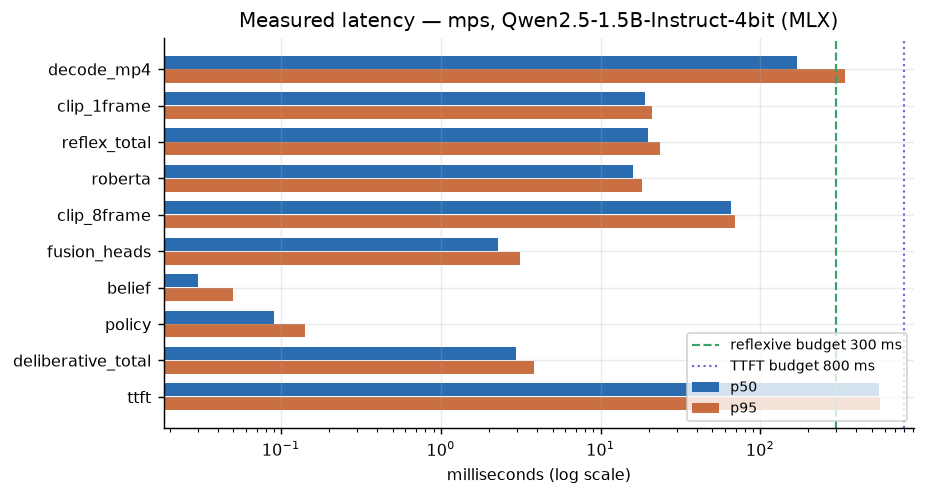
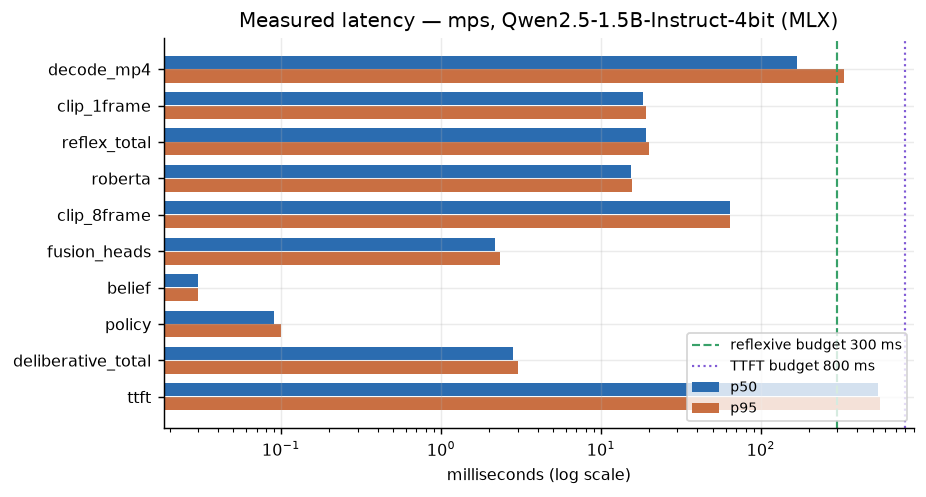
Fix: voice waits for the endpoint instead of speaking from unheard text
The demo committed state at ~50% coverage and immediately generated a reply
from the FULL transcript, so the lamp was responding to words it had not yet
heard. Body and voice now commit at their own deadlines, which is what the
latency budget always claimed. Verified: 0 events speak before their own state
event, 10 of 12 turns have the body moving ahead of the voice.

Also documents responder quality as a known limitation.

diff --git a/scripts/demo.py b/scripts/demo.py
@@ -57,10 +57,17 @@ def run_utterance(u, pipe, tower, text_enc, view, sink, speed, min_cov,
 
     seen: list[np.ndarray] = []
     committed = None
-    t_wall0 = time.perf_counter()
 
     last_reflex = -1e9
     for ev in stream:
+        if ev.kind == "end":
+            if committed is None:
+                emb = pipe.encode_text(text_enc, u.speaker, u.text, u.context, 1.0)
+                committed = _commit_state(u, pipe, emb, seen, ev.t_ms, 1.0, view,
+                                          sink, quiet, why="end of utterance")
+            # Voice budget starts here regardless of when the body committed.
+            _attach_speech(u, pipe, committed, ev.t_ms, view, sink, quiet)
+            continue
         if committed is not None:
             continue
         if ev.kind == "frame" and len(frames):
@@ -83,33 +90,45 @@ def run_utterance(u, pipe, tower, text_enc, view, sink, speed, min_cov,
                                        u.context, cov)
                 p, conf = pipe.probe(emb, np.stack(seen))
                 if conf >= commit_conf:
-                    committed = _commit(u, pipe, emb, seen, ev.t_ms, cov, view,
-                                        sink, t_wall0, quiet,
-                                        why=f"confidence {conf:.2f} >= {commit_conf}")
-
-        elif ev.kind == "end" and committed is None:
-            emb = pipe.encode_text(text_enc, u.speaker, u.text, u.context, 1.0)
-            committed = _commit(u, pipe, emb, seen, ev.t_ms, 1.0, view, sink,
-                                t_wall0, quiet, why="end of utterance")
+                    committed = _commit_state(
+                        u, pipe, emb, seen, ev.t_ms, cov, view, sink, quiet,
+                        why=f"confidence {conf:.2f} >= {commit_conf}")
     return committed
 
 
-def _commit(u, pipe, emb, seen, t_ms, cov, view, sink, t_wall0, quiet, why):
+def _commit_state(u, pipe, emb, seen, t_ms, cov, view, sink, quiet, why):
+    """Emit COMMIT_STATE so the body can move. No speech yet.
+
+    The two tiers have different deadlines and therefore different trigger
+    points. The body is allowed to commit as soon as the posterior is confident
+    enough, which can be halfway through the sentence. The voice is not: its
+    budget is defined as 800ms from the END of the utterance, and generating a
+    reply from the full transcript while the person is still saying it would
+    mean responding to words the lamp has not heard yet.
+    """
     st = pipe.deliberate(emb, np.stack(seen) if seen else np.zeros((0, 512), np.float32),
                          t_ms, u.uid, f"dia{u.dialogue_id}", cov,
                          dialogue_t_ms=pipe.dialogue_t_ms + t_ms,
                          visual_cue=_cue(seen))
-    sink(st)                                   # body gets the state immediately
+    sink(st)
     if not quiet:
         view.push(round_floats(st.to_dict()),
                   f"t={t_ms:6.0f}ms  COMMIT   {st.affect.emotion} "
                   f"{st.affect.confidence:.2f} -> {st.behavior.intent}  ({why})")
-    pipe.speak(st, u.context, u.speaker, u.text)   # ...then we talk
+    return st
+
+
+def _attach_speech(u, pipe, st, t_end_ms, view, sink, quiet):
+    """Generate the spoken reply at the endpoint, from the complete utterance."""
+    pipe.speak(st, u.context, u.speaker, u.text)
+    st.latency["speech_t_ms"] = round(t_end_ms, 1)
     sink(st)
     if not quiet:
+        gap = t_end_ms - st.t_emit_ms
         view.push(round_floats(st.to_dict()),
-                  f"           speech   {st.latency.get('responder','-')} "
-                  f"ttft={st.latency.get('ttft_ms', 0):.0f}ms")
+                  f"t={t_end_ms:6.0f}ms  speech   {st.latency.get('responder','-')} "
+                  f"ttft={st.latency.get('ttft_ms', 0):.0f}ms "
+                  f"(body moved {gap:.0f}ms earlier)")
     return st
 
 

diff --git a/README.md b/README.md
@@ -125,7 +125,7 @@ Every event gets appended to `artifacts/runs/*.jsonl`.
 
 <!-- BEGIN GENERATED RESULTS -->
 
-*Generated by `make eval` on 2026-09-15 19:36:46. Every number here comes out of `artifacts/results.json`.*
+*Generated by `make eval` on 2026-09-15 19:41:50. Every number here comes out of `artifacts/results.json`.*
 
 ### Baselines and modality ablation, MELD test (2,610 utterances)
 
@@ -291,22 +291,22 @@ Text moves the posterior **3.4x** more than video does. That's text dominance, a
 
 | stage | p50 (ms) | p95 (ms) |
 |---|---|---|
-| mp4 decode (8 frames) | 169.9 | 341.4 |
-| CLIP, 1 frame | 18.9 | 21.0 |
-| CLIP, 8 frames | 65.3 | 69.7 |
-| **TIER 1 total (frame → behaviour)** | 19.9 | 23.4 |
-| RoBERTa encode | 16.0 | 18.1 |
+| mp4 decode (8 frames) | 167.7 | 331.5 |
+| CLIP, 1 frame | 18.2 | 19.0 |
+| CLIP, 8 frames | 63.5 | 64.3 |
+| **TIER 1 total (frame → behaviour)** | 19.0 | 19.9 |
+| RoBERTa encode | 15.4 | 15.7 |
 | temporal pooling | 0.1 | 0.1 |
-| 3 fusion heads | 2.3 | 3.1 |
-| belief update | 0.0 | 0.1 |
+| 3 fusion heads | 2.2 | 2.3 |
+| belief update | 0.0 | 0.0 |
 | behaviour policy | 0.1 | 0.1 |
-| **TIER 2 total (→ COMMIT_STATE)** | 3.0 | 3.8 |
-| **time to first spoken token** | 552.9 | 560.4 |
+| **TIER 2 total (→ COMMIT_STATE)** | 2.8 | 3.0 |
+| **time to first spoken token** | 541.6 | 553.0 |
 
-- **Reflexive budget 300ms: met**, p95 = 23ms, about 13x margin. The lamp moves well inside the window where a motion still reads as a reaction.
-- **Verbal budget 800ms to first token: met**, p95 = 560ms.
-- **`mp4 decode` is deliberately not inside the reflexive total.** It's an artefact of replaying a dataset: on a robot the camera hands you decoded frames and there's no container to demux. I left it in the table rather than dropping it, because it is a real cost of this harness and hiding it would make the 23ms look cheaper than the measurement was.
-- Perception real-time factor p95 = **0.260**, which has to be well under 1 to consume a live stream. Peak RSS **1678MB**.
+- **Reflexive budget 300ms: met**, p95 = 20ms, about 15x margin. The lamp moves well inside the window where a motion still reads as a reaction.
+- **Verbal budget 800ms to first token: met**, p95 = 553ms.
+- **`mp4 decode` is deliberately not inside the reflexive total.** It's an artefact of replaying a dataset: on a robot the camera hands you decoded frames and there's no container to demux. I left it in the table rather than dropping it, because it is a real cost of this harness and hiding it would make the 20ms look cheaper than the measurement was.
+- Perception real-time factor p95 = **0.250**, which has to be well under 1 to consume a live stream. Peak RSS **2451MB**.
 
 ### Parameter ledger
 
@@ -538,6 +538,25 @@ inflates tier-1's training loss and it's a real weakness.
 within a dialogue, so temporal smoothing can look like an accuracy win that's
 really a dataset-structure win. That's why the headline smoothing number here is
 switches per minute rather than F1, and why both are reported next to each other.
+
+**The body and the voice commit at different times, on purpose.** The state
+event can fire halfway through a sentence, as soon as the posterior is confident
+enough. The spoken reply doesn't: its budget is defined as 800ms from the end of
+the utterance, and generating a reply from the full transcript while the person
+is still talking would mean answering words the lamp hasn't heard. In a typical
+run the body commits around 50% coverage and the voice follows 0.8 to 3.5
+seconds later, at the endpoint. You can see both timestamps in the JSONL:
+`t_emit_ms` for the state, `latency.speech_t_ms` for the reply.
+
+**The spoken lines are the weakest part of the system.** Qwen2.5-1.5B at 4-bit
+produces a coherent, state-appropriate reply most of the time, and the
+counterfactual demo shows the state genuinely changes what it says. But some
+lines are clumsy ("I am adjusting to your question") and it occasionally
+paraphrases the input back instead of responding to it. There's an echo guard
+that catches the worst cases by token overlap and falls back to the template
+responder, but it's a threshold and it misses some. The budget has room for a 3B
+model, which is the obvious fix and the one I'd make first. I'd rather say this
+than have you notice it in the demo.
 
 **`visual_cue` is not a face reading.** There's no face detector. It describes
 how much the CLIP embedding moves across the utterance, which is an honest
